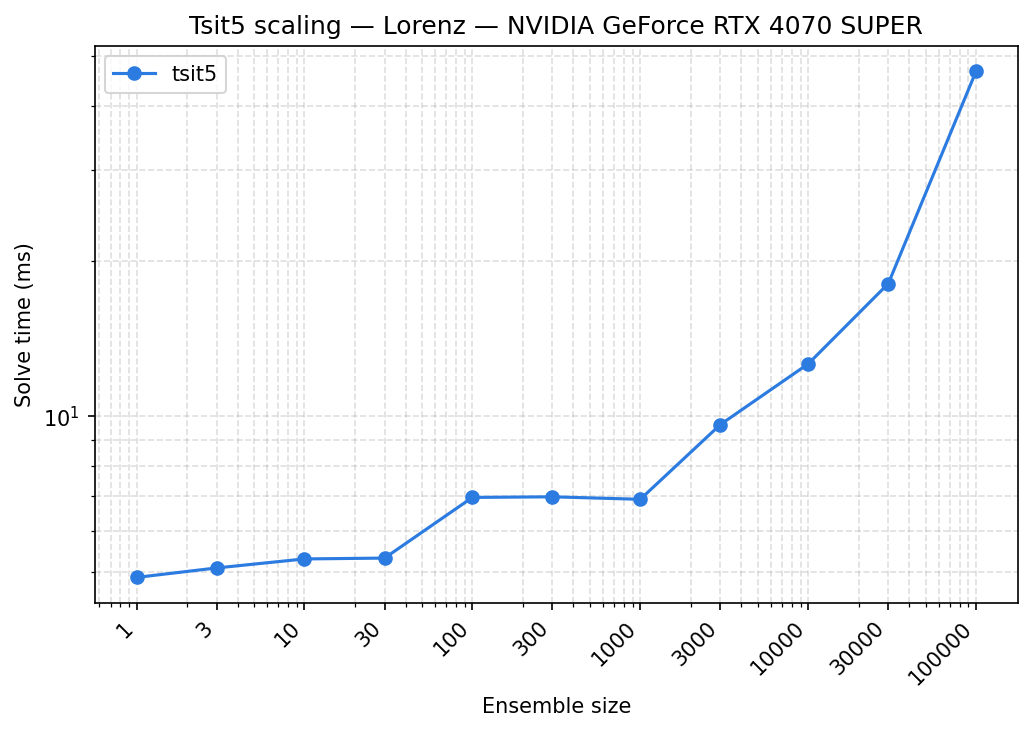
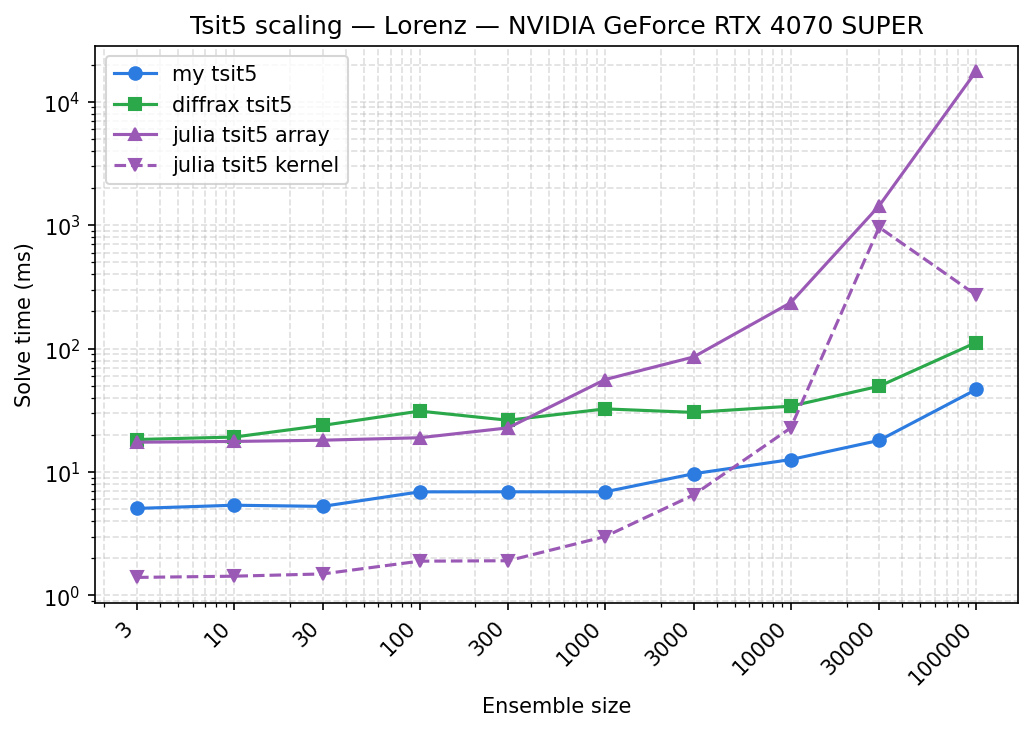
Improve script

Changed region(s): [[0.031, 0.0, 0.9913, 0.933]]

diff --git a/scripts/1_tsit5_scaling/main.py b/scripts/1_tsit5_scaling/main.py
@@ -1,7 +1,7 @@
 """Solver scaling benchmark on the Lorenz system.
 
 Sweeps ensemble size from 1 to 100k on a log scale and records solve time for
-the local Tsit5 solver, Diffrax Tsit5, and Julia Tsit5/Rodas5 with both
+the local Tsit5 solver, Diffrax Tsit5, and Julia Tsit5 with both
 DiffEqGPU ensemble backends. Outputs a CSV and a log-log plot named after the
 GPU.
 
@@ -10,6 +10,7 @@ Usage:
 """
 
 import csv
+import json
 import subprocess
 import sys
 import time
@@ -24,7 +25,6 @@ import numpy as np
 sys.path.insert(0, str(Path(__file__).resolve().parents[2]))
 
 from reference.solvers.python.diffrax_tsit5 import solve as diffrax_tsit5_solve
-from reference.solvers.python.julia_rodas5 import solve as julia_rodas5_solve
 from reference.solvers.python.julia_tsit5 import solve as julia_tsit5_solve
 from reference.systems.python import lorenz
 from solvers.tsit5 import solve as tsit5_solve
@@ -37,21 +37,21 @@ _N_RUNS = 10
 _JULIA_BACKENDS = ("EnsembleGPUArray", "EnsembleGPUKernel")
 
 _SCRIPT_DIR = Path(__file__).resolve().parent
+_CACHE_PATH = _SCRIPT_DIR / "results.json"
 _SOLVER_KWARGS = {"first_step": 1e-4, "rtol": 1e-6, "atol": 1e-8}
 
 # (key, label, color, marker, solve_fn)
 _JAX_SOLVER_DEFS = [
-    ("local_tsit5",   "my tsit5",      "#2b7be0", "o", tsit5_solve),
+    ("local_tsit5", "my tsit5", "#2b7be0", "o", tsit5_solve),
     ("diffrax_tsit5", "diffrax tsit5", "#2ba84a", "s", diffrax_tsit5_solve),
 ]
 # (key, label, solve_fn, color)
 _JULIA_SOLVER_DEFS = [
-    ("julia_tsit5",  "julia tsit5",  julia_tsit5_solve,  "#9b59b6"),
-    ("julia_rodas5", "julia rodas5", julia_rodas5_solve, "#e67e22"),
+    ("julia_tsit5", "julia tsit5", julia_tsit5_solve, "#9b59b6"),
 ]
 # backend -> (label_suffix, marker, linestyle)
 _JULIA_BACKEND_STYLES = {
-    "EnsembleGPUArray":  ("array",  "^", "-"),
+    "EnsembleGPUArray": ("array", "^", "-"),
     "EnsembleGPUKernel": ("kernel", "v", "--"),
 }
 
@@ -92,6 +92,16 @@ def get_gpu_name() -> str:
 
 def gpu_slug(name: str) -> str:
     return name.replace(" ", "_").replace("/", "-")
+
+
+def load_cache() -> dict:
+    if _CACHE_PATH.exists():
+        return json.loads(_CACHE_PATH.read_text())
+    return {}
+
+
+def save_cache(cache: dict) -> None:
+    _CACHE_PATH.write_text(json.dumps(cache, indent=2))
 
 
 def time_jax_solver(solve_fn, params) -> float:
@@ -146,7 +156,9 @@ def make_solver_specs() -> list[SolverSpec]:
                     color=color,
                     marker=marker,
                     linestyle=linestyle,
-                    timing_fn=lambda params, s=solve, b=backend: time_julia_solver(s, params, ensemble_backend=b),
+                    timing_fn=lambda params, s=solve, b=backend: time_julia_solver(
+                        s, params, ensemble_backend=b
+                    ),
                 )
             )
     return specs
@@ -170,20 +182,33 @@ def drop_none(
     rows: list[_Row],
     solver_key: str,
 ) -> tuple[list[int], list[float]]:
-    pairs = [(size, ms) for key, _, size, ms in rows if key == solver_key and ms is not None]
+    pairs = [
+        (size, ms) for key, _, size, ms in rows if key == solver_key and ms is not None
+    ]
     if not pairs:
         return [], []
     sizes, times = zip(*pairs)
     return list(sizes), list(times)
 
 
-def run_benchmarks(specs: list[SolverSpec]) -> list[_Row]:
+def run_benchmarks(
+    specs: list[SolverSpec], gpu_name: str, cache: dict
+) -> list[_Row]:
+    gpu_cache = cache.setdefault(gpu_name, {})
     rows: list[_Row] = []
     for spec in specs:
         print(f"{spec.label}:")
+        solver_cache = gpu_cache.setdefault(spec.key, {})
         for size in _ENSEMBLE_SIZES:
-            params = lorenz.make_params(size)
-            ms = collect_timing(spec, size, params)
+            size_key = str(size)
+            if size_key in solver_cache:
+                ms = solver_cache[size_key]
+                print(f"  {spec.label:<20} n={size:>7} ... (cached) {f'{ms:.1f} ms' if ms is not None else 'FAILED'}")
+            else:
+                params = lorenz.make_params(size)
+                ms = collect_timing(spec, size, params)
+                solver_cache[size_key] = ms
+                save_cache(cache)
             rows.append((spec.key, spec.label, size, ms))
         print()
     return rows
@@ -197,17 +222,10 @@ def save_csv(rows: list[_Row], path: Path) -> None:
     print(f"Results saved to {path}")
 
 
-def load_csv(path: Path) -> list[_Row]:
-    rows: list[_Row] = []
-    with path.open(newline="") as f:
-        for row in csv.DictReader(f):
-            raw = row["solve_time_ms"]
-            ms = None if raw == "" else float(raw)
-            rows.append((row["solver_key"], row["solver"], int(row["ensemble_size"]), ms))
-    return rows
 
-
-def plot(rows: list[_Row], specs: list[SolverSpec], gpu_name: str, output_path: Path) -> None:
+def plot(
+    rows: list[_Row], specs: list[SolverSpec], gpu_name: str, output_path: Path
+) -> None:
     fig, ax = plt.subplots(figsize=(7, 5))
     for spec in specs:
         sizes, times_ms = drop_none(rows, spec.key)
@@ -235,23 +253,14 @@ def plot(rows: list[_Row], specs: list[SolverSpec], gpu_name: str, output_path: 
     print(f"Plot saved to {output_path}")
 
 
-def plot_from_csv(csv_path: Path) -> None:
-    # Infer GPU name from filename: "results-{slug}.csv" -> slug -> name
-    slug = csv_path.stem.removeprefix("results-")
-    gpu_name = slug.replace("_", " ")
-    rows = load_csv(csv_path)
-    specs = make_solver_specs()
-    plot_path = csv_path.with_name(f"plot-{slug}.png")
-    plot(rows, specs, gpu_name, plot_path)
-
-
 def main() -> None:
     gpu_name = get_gpu_name()
     slug = gpu_slug(gpu_name)
     print(f"GPU: {gpu_name}\n")
 
+    cache = load_cache()
     specs = make_solver_specs()
-    rows = run_benchmarks(specs)
+    rows = run_benchmarks(specs, gpu_name, cache)
 
     csv_path = _SCRIPT_DIR / f"results-{slug}.csv"
     save_csv(rows, csv_path)
@@ -261,18 +270,4 @@ def main() -> None:
 
 
 if __name__ == "__main__":
-    import argparse
-
-    parser = argparse.ArgumentParser(description=__doc__)
-    parser.add_argument(
-        "--plot",
-        metavar="CSV",
-        type=Path,
-        help="Generate plot from an existing results CSV instead of running benchmarks.",
-    )
-    args = parser.parse_args()
-
-    if args.plot:
-        plot_from_csv(args.plot)
-    else:
-        main()
+    main()
